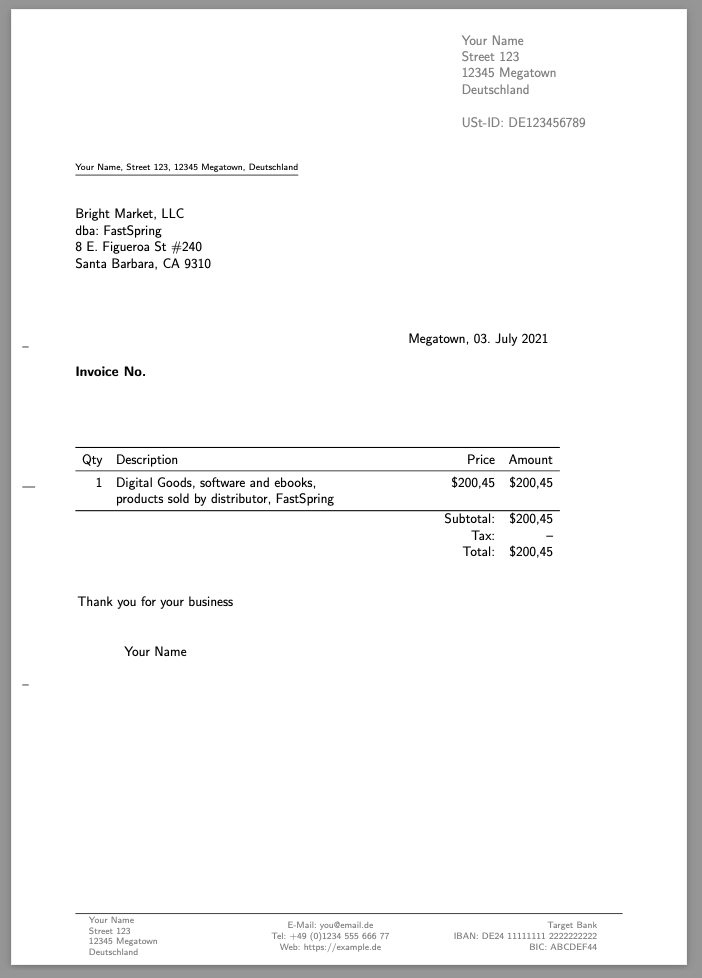
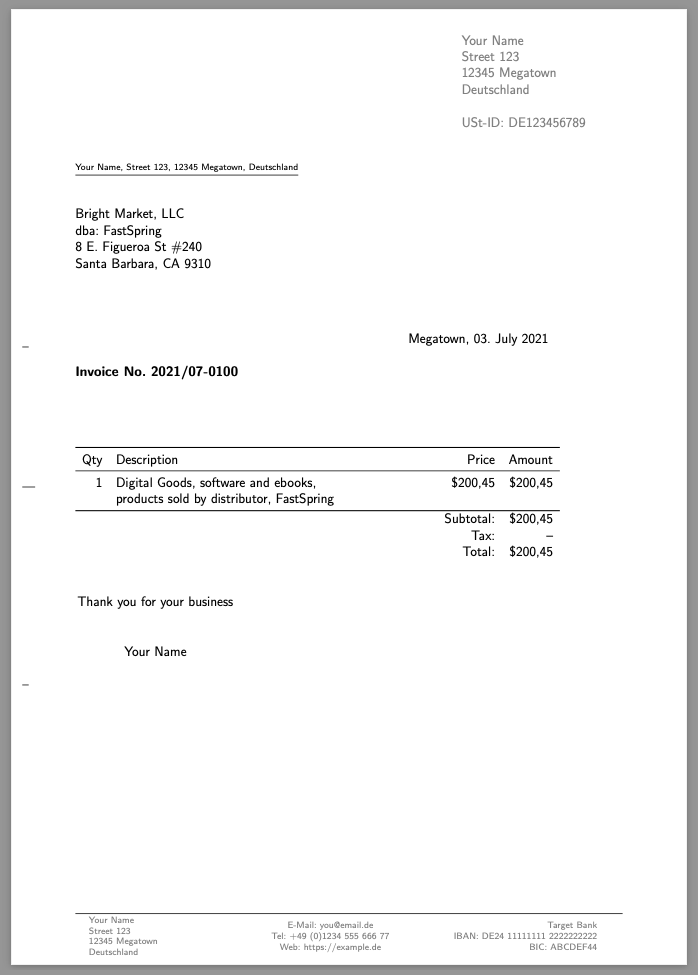
add missing invoice no to sample

diff --git a/README.md b/README.md
@@ -16,7 +16,7 @@ From that directory, you can now begin to generate reports!
 
 To generate a single PDF:
 
-    ./report.rb --date 2021-07-03 --amount "\$200,45" --output "invoice.pdf"
+    ./report.rb --invoice "2021/07-0100" --date 2021-07-03 --amount "\$200,45" --output "invoice.pdf"
 
 ![Sample Output](/assets/invoice-sample.png)
 
